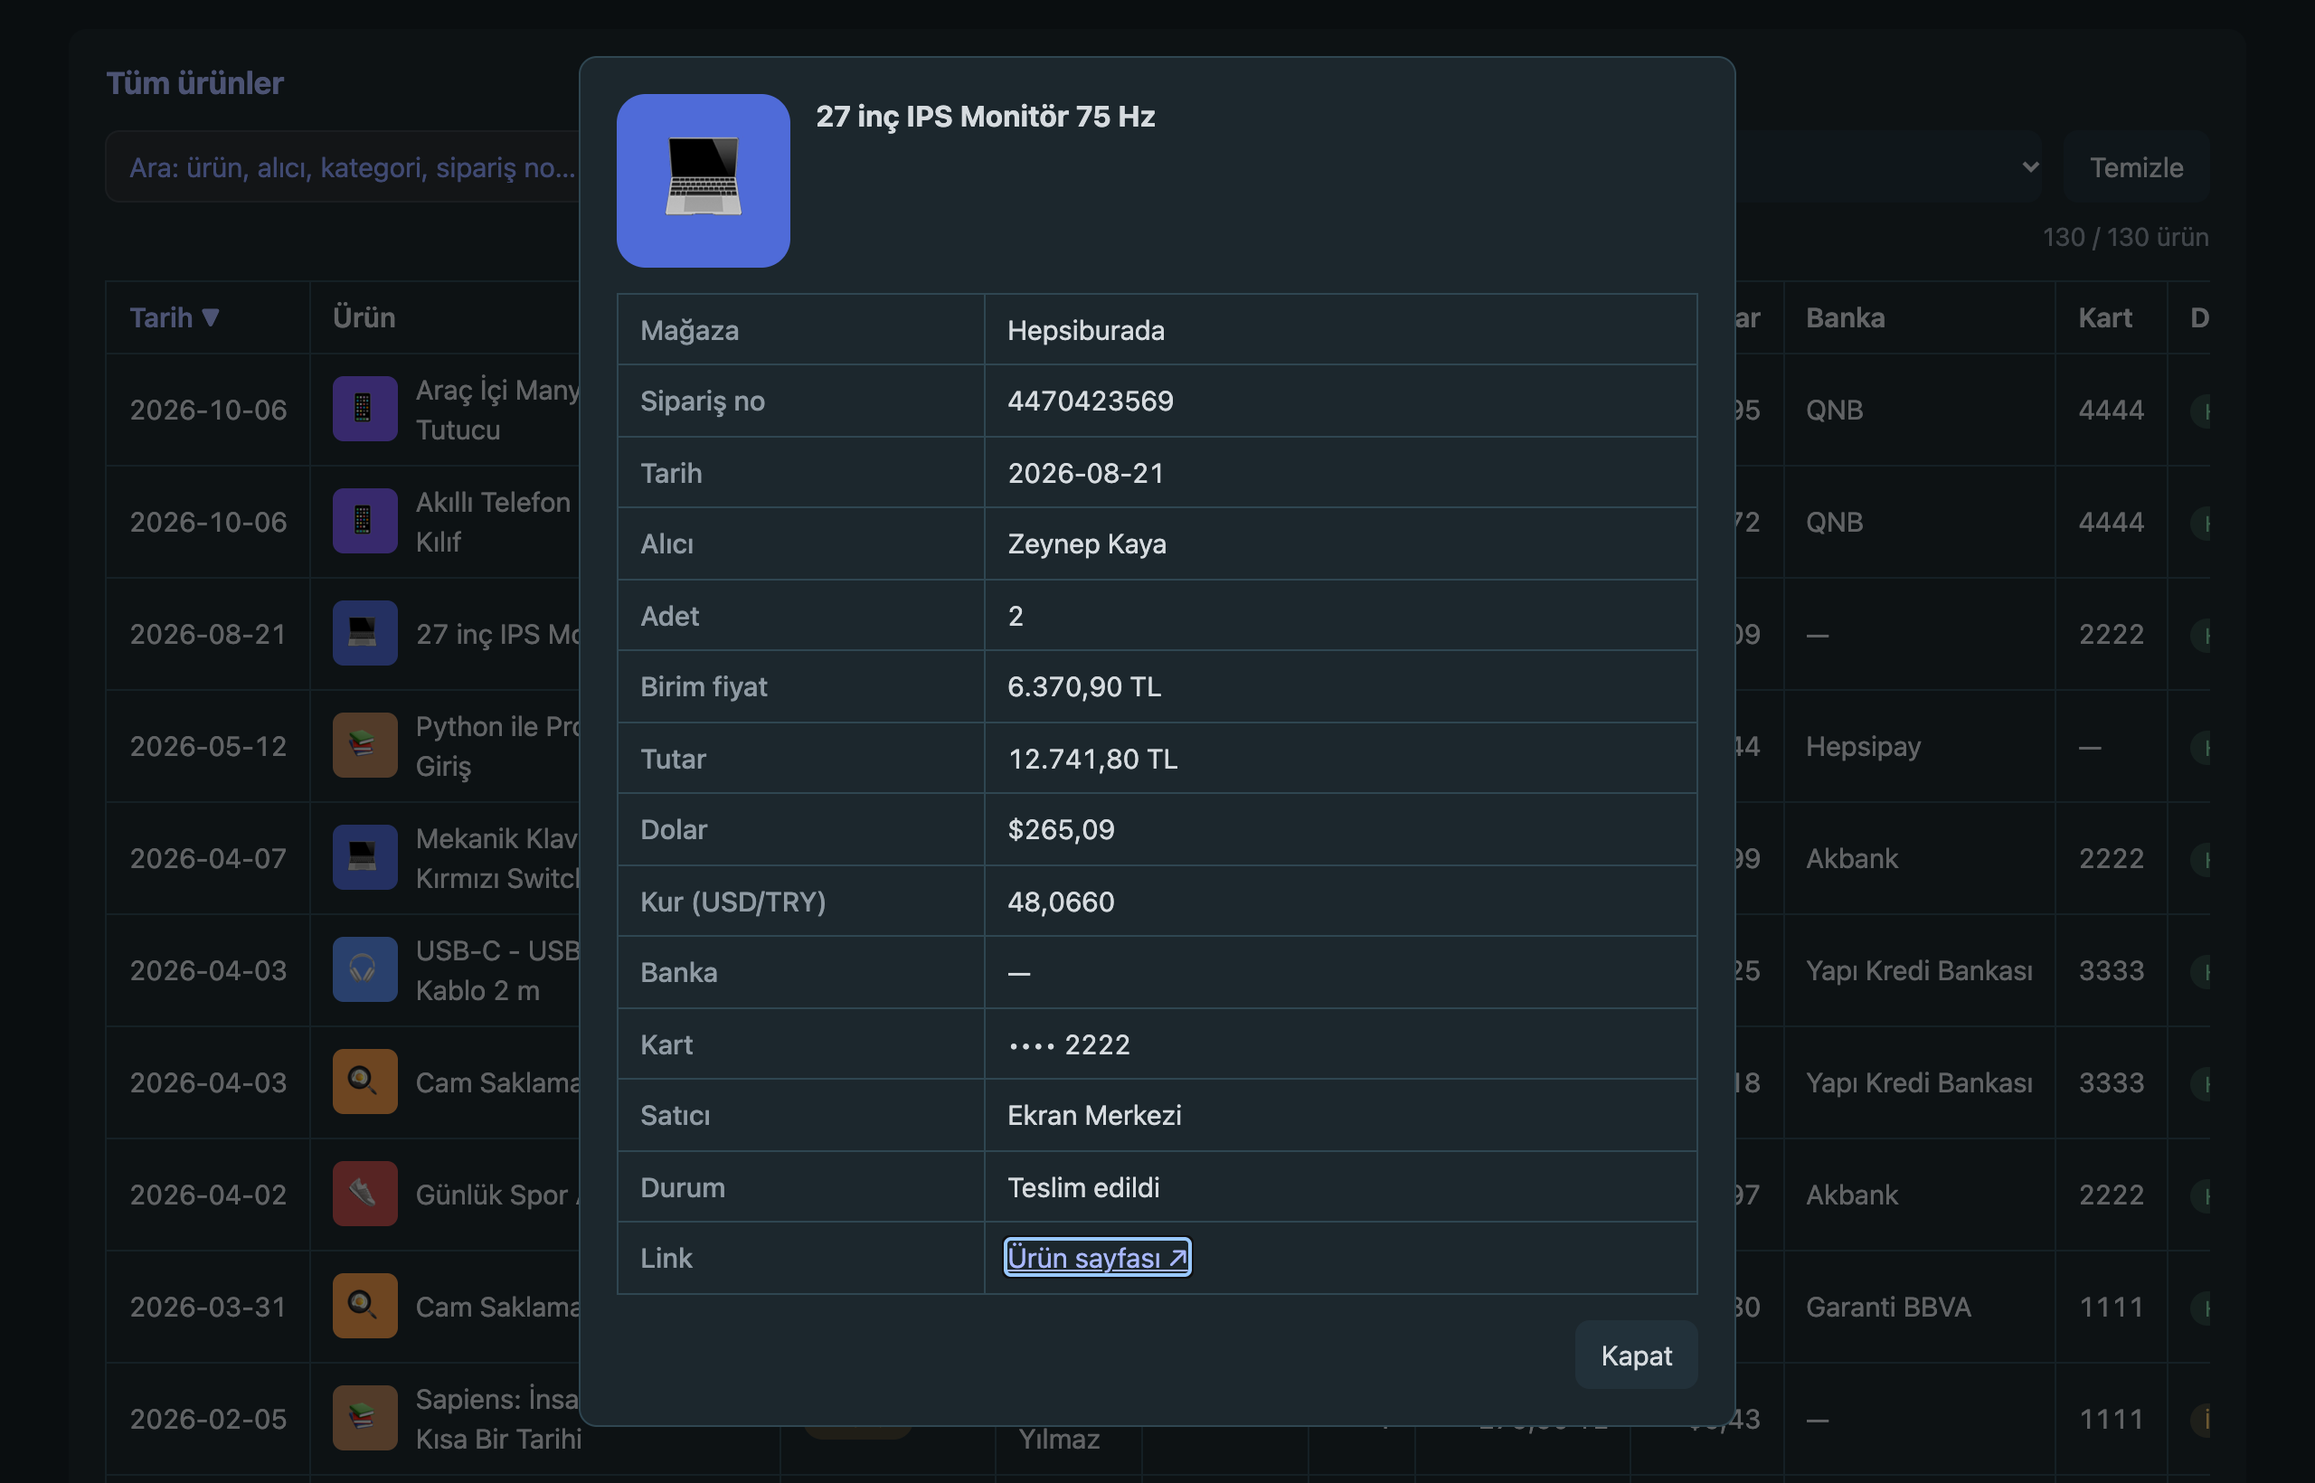
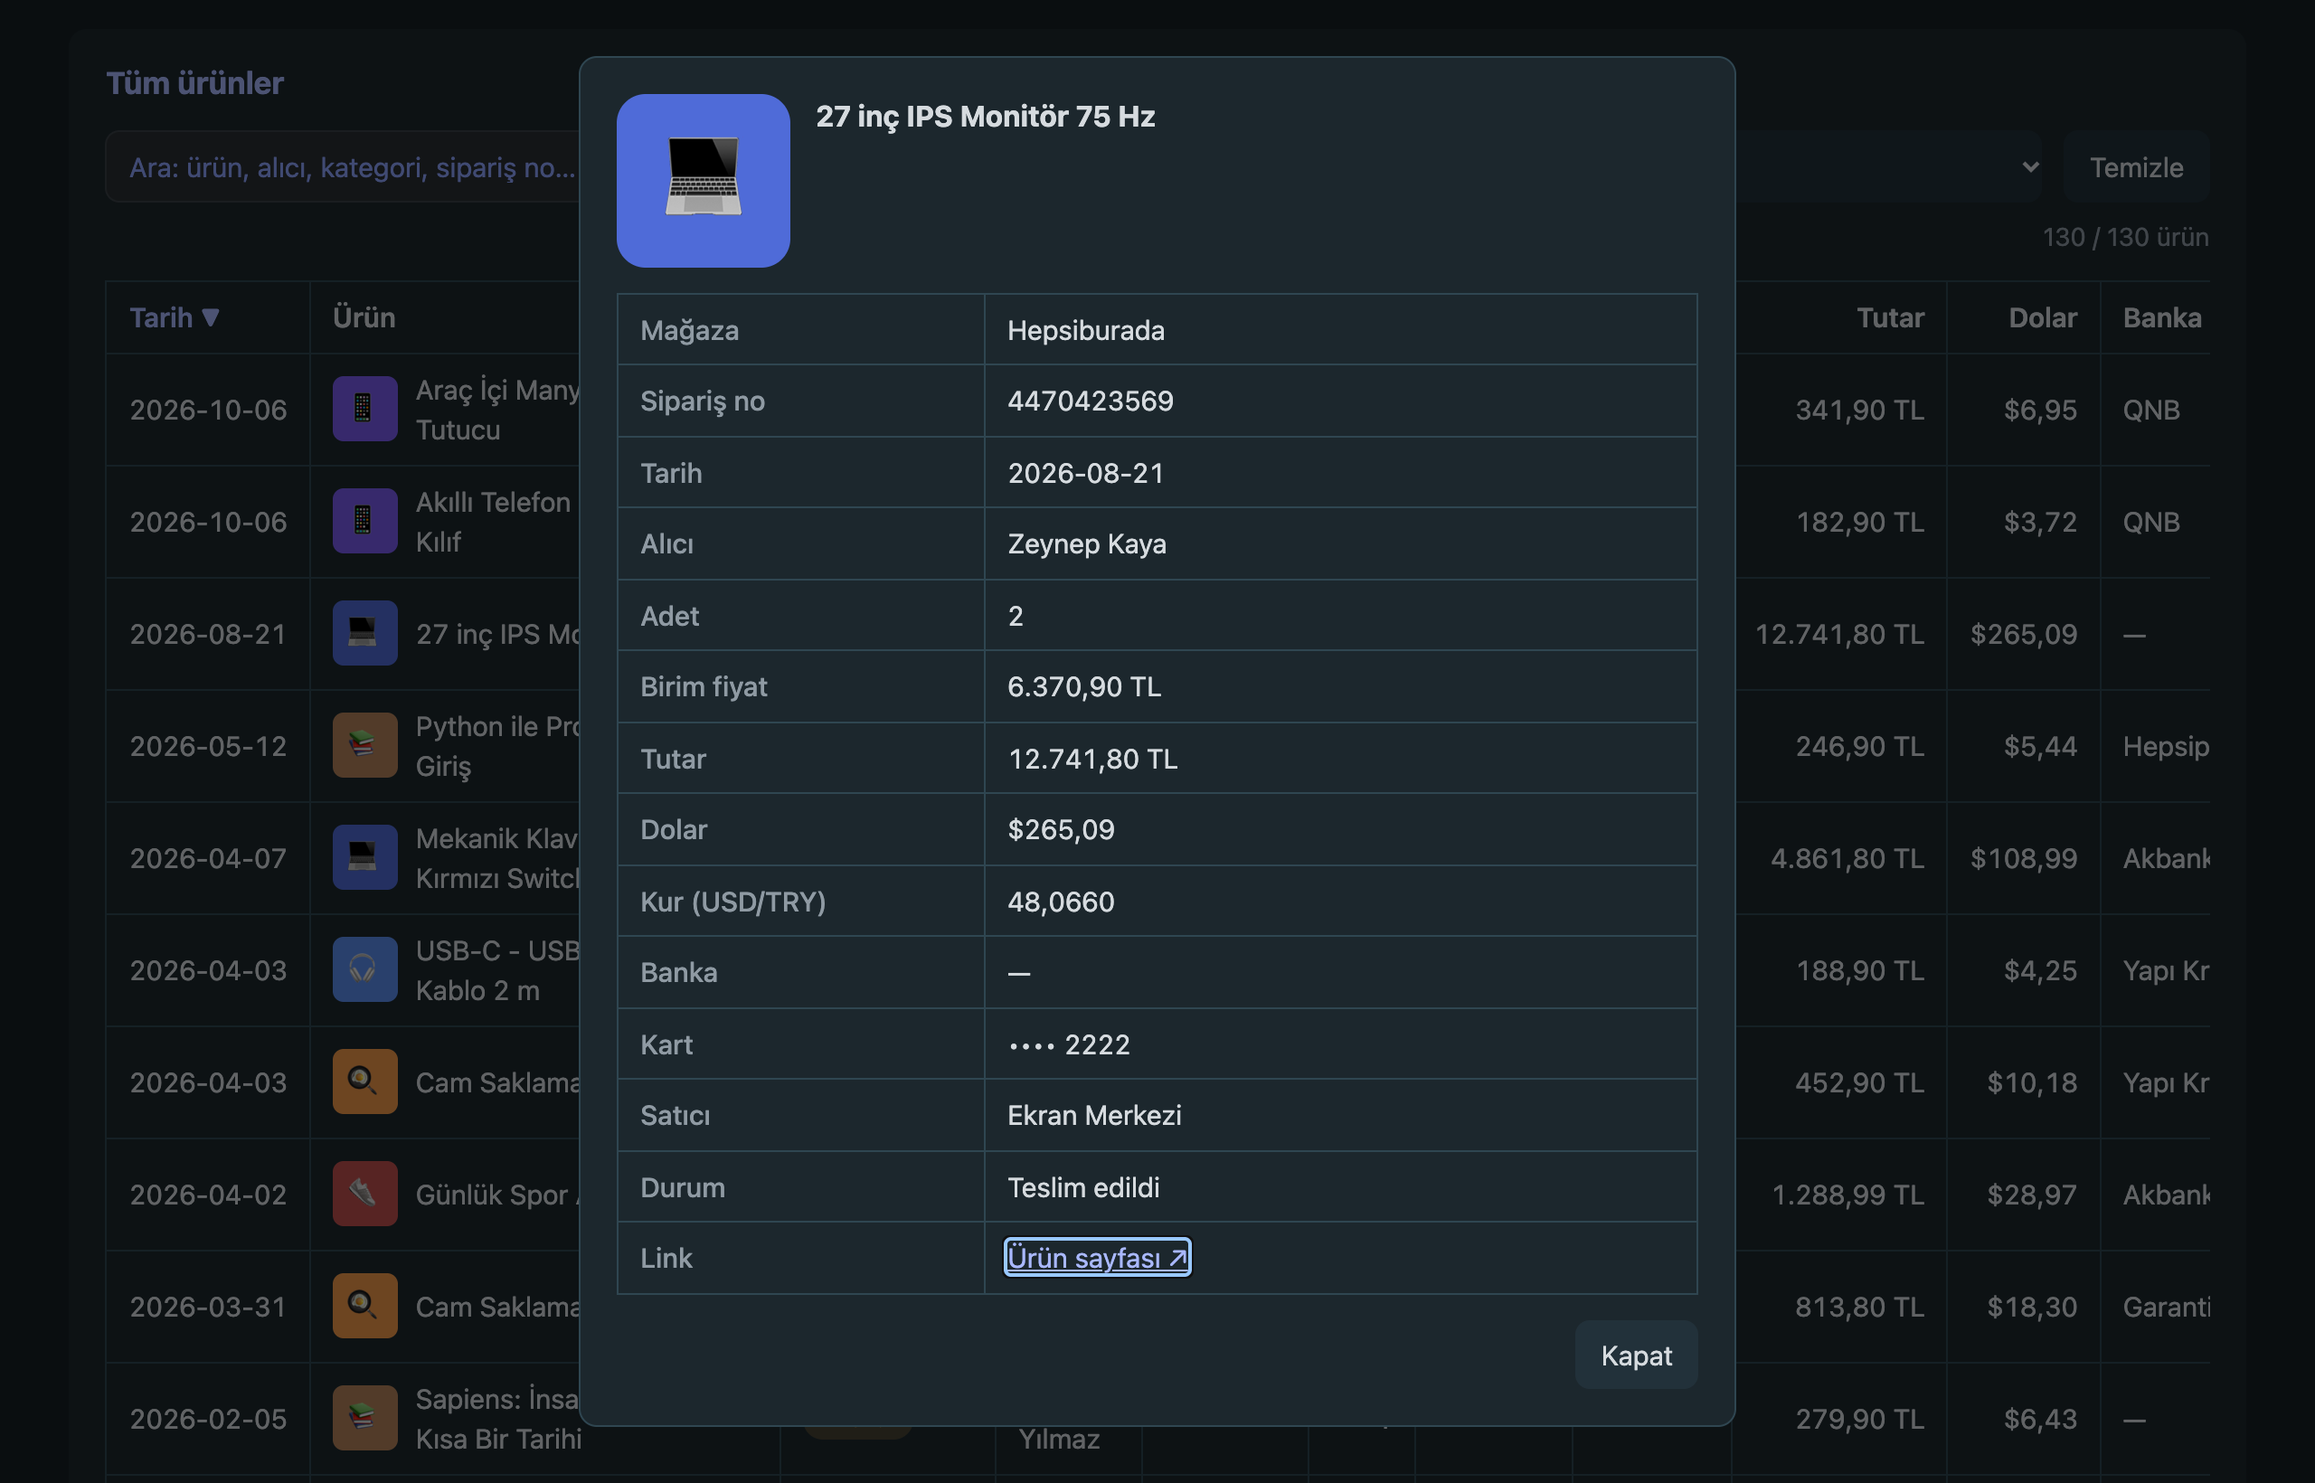
Temu: gümrük vergisi, iade ve net ürün başına görünür
- Adaptör vault yöntemiyle aynı: vergi ve ödenen satır oranında, iade kaydın kapsadığı ürünlere ödenen oranında
- Ürünler tablosunda Temu varsa Gümrük ve İade sütunları; ayrıntıda ürün tutarı/vergi/ödenen/iade/net
- Özet satırının altında Temu dökümü (ürün + vergi → ödenen − iade = net)
- README ve ekran görüntüleri güncellendi

diff --git a/web/js/adapters/temu.js b/web/js/adapters/temu.js
@@ -1,7 +1,10 @@
-// Temu: ürün satırları ithalat vergisini ve kuponu içermez, sipariş toplamı içerir.
-// Ödenen = sipariş toplamı, ürünlere satır tutarıyla orantılı dağıtılır (çıkarım).
-// İade = siparişin vergili iade toplamı, ürünlere refundedAmount (vergisiz) oranında dağıtılır.
-// refundedQty güvenilir değil: "fiyat ayarlaması" iadeleri de adet sayıyor; tam iade tutardan anlaşılır.
+// Temu: ürün satırları ithalat vergisini içermez, sipariş toplamı içerir. Ürün başına:
+//   Gümrük vergisi = siparişte ödenen ithalat vergisi, satır tutarı oranında (iptalde alan boş: toplam − ürün tutarı)
+//   Ödenen = sipariş toplamının ürün payı (vergi dahil, kupon/kredi sonrası), satır tutarı oranında
+//   İade = siparişin iade kayıtları (vergi iadesi dahil), kaydın kapsadığı ürünlere ödenen oranında;
+//          kaydı olmayan iade (ör. iptal siparişler) tüm ürünlere
+//   Net = Ödenen − İade (0'ın altına inmez). Harcamaya net girer.
+// "Fiyat ayarlaması" iadelerinin tutarı Temu verisinde yok; o ürünlerin neti fazla görünebilir.
 (function (SD) {
   SD.adapters.temu = {
     store: 'temu', label: 'Temu',
@@ -11,32 +14,47 @@
       const card = SD.dash(p.card);
       const pay = card ? { last4: card, brand: SD.dash(p.cardType)?.toUpperCase() } : { method: SD.dash(p.type) || 'Kredi bakiyesi' };
       const items = o.items || [];
-      const orderTotal = SD.parseTL(o.total);
-      const lineSum = items.reduce((a, i) => a + (SD.parseTL(i.lineTotal) || 0), 0);
-      const refundTotal = SD.parseTL(o.refundTotal) || 0;
-      const refundSum = items.reduce((a, i) => a + (SD.parseTL(i.refundedAmount) || 0), 0);
-      return items.map(i => {
-        const line = SD.parseTL(i.lineTotal);
-        const paid = line != null && lineSum && orderTotal != null ? orderTotal * line / lineSum : null;
-        const refund = refundSum ? refundTotal * (SD.parseTL(i.refundedAmount) || 0) / refundSum : 0;
-        const state = i.cancelled || o.cancelled ? 'iptal' : paid != null && refund >= paid - 0.5 ? 'iade' : 'ok';
+      const lines = items.map(i => SD.parseTL(i.lineTotal) || 0);
+      const lineSum = lines.reduce((a, x) => a + x, 0) || 1;
+      const top = SD.parseTL(o.total) || 0;
+      const taxOrder = SD.parseTL(p.importTax) || Math.max(top - lines.reduce((a, x) => a + x, 0), 0);
+      const paid = lines.map(x => top * x / lineSum);
+
+      const refund = items.map(() => 0);
+      for (const rf of o.refunds || []) {
+        let ks = items.map((it, k) => ((rf.items || []).includes(it.subOrderNo) ? k : -1)).filter(k => k >= 0);
+        if (!ks.length) ks = items.map((_, k) => k);
+        const so = ks.reduce((a, k) => a + paid[k], 0) || 1;
+        for (const k of ks) refund[k] += (SD.parseTL(rf.amount) || 0) * paid[k] / so;
+      }
+      const rest = (SD.parseTL(o.refundTotal) || 0) - refund.reduce((a, x) => a + x, 0);
+      if (rest > 0.01) paid.forEach((x, k) => { refund[k] += rest * x / (top || 1); });
+
+      return items.map((i, k) => {
+        let net = Math.round((paid[k] - refund[k]) * 100) / 100;
+        if (net < 0.01) net = 0;   // iade, vergi yuvarlaması yüzünden payı birkaç kuruş aşabiliyor
+        const state = i.cancelled || o.cancelled ? 'iptal' : refund[k] && !net ? 'iade' : 'ok';
+        const statusText = state === 'ok' && refund[k] ? 'Kısmi iade' : SD.dash(i.status) || SD.dash(o.status);
         return {
           store: 'temu', orderNo: o.orderNo, date: SD.parseDate(o.date),
           name: SD.dash(i.name) || '(adsız ürün)',
           qty: typeof i.quantity === 'number' ? i.quantity : null,
           unit: SD.parseTL(i.unitPrice),
-          total: paid == null ? null : state === 'ok' ? paid - refund : paid,   // harcamada iade sonrası net
-          tax: paid != null && line != null ? paid - line : null,
-          refund: refund || null,
+          line: SD.parseTL(i.lineTotal),
+          tax: taxOrder * lines[k] / lineSum,
+          paid: paid[k],
+          refund: refund[k] || null,
+          net,
+          total: state === 'ok' ? net : paid[k],   // harcamada net; iade/iptalde ödenen (harcamaya girmez)
           estimated: false,
           recipient: SD.dash(o.address?.fullName),
           category: null,
           seller: null,
           variant: SD.dash(i.variant),
-          statusText: SD.dash(i.status) || SD.dash(o.status),
+          statusText,
           state,
           pay, url: SD.dash(i.url), image: SD.dash(i.image),
-          orderTotal,
+          orderTotal: top,
         };
       });
     },

diff --git a/web/js/components/table.js b/web/js/components/table.js
@@ -1,5 +1,6 @@
 // Filtrelenebilir, sıralanabilir tablo bileşeni: arama kutusu + tek seçmeli filtre + Temizle + "n / m" sayacı.
 // Kullanım: const t = SD.table({ columns, unit, filterKey, filterLabel, pageSize, onRow }); t.el'i yerleştir, t.update(rows) çağır.
+// Sütunda when(rows) varsa sütun yalnız true dönünce görünür (ör. yalnız Temu satırlarında olan Gümrük/İade).
 (function (SD) {
   const { h } = SD;
 
@@ -24,8 +25,10 @@
     select?.addEventListener('change', () => { sel = select.value; page = 0; render(); });
     clear.addEventListener('click', () => { q = sel = ''; search.value = ''; if (select) select.value = ''; page = 0; render(); });
 
+    const visible = () => columns.filter(c => !c.when || c.when(rows));
+
     function header() {
-      thead.replaceChildren(h('tr', {}, columns.map(c => {
+      thead.replaceChildren(h('tr', {}, visible().map(c => {
         const active = sortKey === c.key;
         return h('th', {
           class: [c.num && 'num', c.sortable !== false && 'sortable', active && 'active'].filter(Boolean).join(' '),
@@ -64,13 +67,13 @@
       const shown = pageSize ? list.slice(page * pageSize, (page + 1) * pageSize) : list;
       tbody.replaceChildren(...shown.map(r => {
         const tr = h('tr', { class: onRow ? 'clickable' : null, onclick: onRow ? () => onRow(r) : null },
-          columns.map(c => {
+          visible().map(c => {
             const v = c.render ? c.render(r) : (c.fmt ? c.fmt(r[c.key]) : r[c.key] ?? '—');
             return h('td', { class: [c.num && 'num', c.cls].filter(Boolean).join(' ') || null }, v);
           }));
         return tr;
       }));
-      if (!shown.length) tbody.append(h('tr', {}, h('td', { colspan: columns.length, class: 'empty' }, 'Sonuç yok')));
+      if (!shown.length) tbody.append(h('tr', {}, h('td', { colspan: visible().length, class: 'empty' }, 'Sonuç yok')));
       pager.replaceChildren();
       if (pages > 1) {
         const btn = (txt, p, dis) => h('button', { class: 'tb-btn', type: 'button', disabled: dis, onclick: () => { page = p; render(); } }, txt);

diff --git a/web/js/views/items.js b/web/js/views/items.js
@@ -2,6 +2,7 @@
 (function (SD) {
   const { h } = SD;
   const STATE = { ok: 'Harcama', iade: 'İade', iptal: 'İptal' };
+  const hasTemu = rows => rows.some(r => r.paid != null);
 
   function detail(dialog, it) {
     const row = (k, v) => (v == null || v === '' ? null : h('tr', {}, h('th', {}, k), h('td', {}, v)));
@@ -16,9 +17,12 @@
         row('Alıcı', it.recipient),
         row('Adet', it.qty),
         row('Birim fiyat', SD.fmtTL(it.unit)),
-        row('Tutar', (it.estimated ? '≈ ' : '') + SD.fmtTL(it.total)),
-        it.tax ? row('Vergi/kupon payı (çıkarım)', SD.fmtTL(it.tax)) : null,
-        it.refund ? row('İade payı (çıkarım)', SD.fmtTL(it.refund)) : null,
+        it.paid == null ? row('Tutar', (it.estimated ? '≈ ' : '') + SD.fmtTL(it.total)) : null,
+        it.paid != null ? row('Ürün tutarı', SD.fmtTL(it.line)) : null,
+        it.paid != null ? row('Gümrük vergisi (pay)', SD.fmtTL(it.tax)) : null,
+        it.paid != null ? row('Ödenen (pay, vergi dahil)', SD.fmtTL(it.paid)) : null,
+        it.paid != null ? row('İade (pay, vergi dahil)', it.refund ? SD.fmtTL(it.refund) : '—') : null,
+        it.paid != null ? row('Net', SD.fmtTL(it.net)) : null,
         row('Dolar', it.usd != null ? SD.fmtUSD(it.usd) : null),
         row('Kur (USD/TRY)', it.rate ? it.rate.toFixed(4).replace('.', ',') : null),
         row('Banka', it.bank),
@@ -51,6 +55,8 @@
         { key: 'recipient', label: 'Alıcı' },
         { key: 'category', label: 'Kategori' },
         { key: 'qty', label: 'Adet', num: true },
+        { key: 'tax', label: 'Gümrük', num: true, cls: 'nowrap', when: hasTemu, render: it => (it.tax ? SD.fmtTL(it.tax) : '—') },
+        { key: 'refund', label: 'İade', num: true, cls: 'nowrap', when: hasTemu, render: it => (it.refund ? SD.fmtTL(it.refund) : '—') },
         { key: 'total', label: 'Tutar', num: true, cls: 'nowrap', render: it => (it.estimated ? '≈ ' : '') + SD.fmtTL(it.total) },
         { key: 'usd', label: 'Dolar', num: true, cls: 'nowrap', fmt: SD.fmtUSD },
         { key: 'bank', label: 'Banka', cls: 'nowrap' },

diff --git a/web/js/views/summary.js b/web/js/views/summary.js
@@ -38,7 +38,15 @@
       const note = h('p', { class: 'muted small rate-note' },
         'Dolar: alış gününün USD/TRY kuru, Frankfurter (açık kaynak API, Avrupa Merkez Bankası referans kuru; hafta sonu ve tatilde önceki iş günü). ',
         'Bankanın uyguladığı kurdan farklıdır, API hatalı ya da eksik veri dönebilir: dolar tutarları yaklaşıktır.');
-      root.replaceChildren(line, tiles, note);
+      // Temu: ürün tutarı + gümrük vergisi → ödenen − iade = net (harcamaya net girer)
+      const temu = items.filter(i => i.paid != null);
+      const sum = k => temu.reduce((a, i) => a + (i[k] || 0), 0);
+      const temuLine = temu.length ? h('p', { class: 'temu-line' },
+        h('strong', {}, 'Temu: '), `ürün ${SD.fmtTL(sum('line'))} + gümrük vergisi ${SD.fmtTL(sum('tax'))} → ödenen ${SD.fmtTL(sum('paid'))} − iade ${SD.fmtTL(sum('refund'))} = net `,
+        b(SD.fmtTL(sum('net'))),
+        h('span', { class: 'muted' }, ' (vergi ve iade ürünlere orantılı dağıtılır; ürün başına tutarlar çıkarımdır)')) : null;
+
+      root.replaceChildren(line, tiles, temuLine, note);
     };
   };
 })(window.SD);

diff --git a/web/css/style.css b/web/css/style.css
@@ -97,6 +97,7 @@ a { color: var(--accent); }
 .summary-line { font-size: 20px; line-height: 1.6; margin: 0 0 16px; color: #c3c9ce; }
 .summary-line .hl { color: var(--accent); }
 .rate-note { margin: 12px 0 0; }
+.temu-line { margin: 14px 0 0; }
 .tiles { display: grid; grid-template-columns: repeat(auto-fit, minmax(180px, 1fr)); gap: 12px; }
 .tile { background: var(--panel-2); border-radius: 8px; padding: 12px 14px; }
 .tile-k { color: var(--muted); font-size: 13px; }

diff --git a/README.md b/README.md
@@ -76,7 +76,12 @@ Denemek için `examples/` klasörünü seç: klasörde gerçek dosya yoksa örne
 - **Banka:** yalnız site veriyorsa görünür (şu an yalnız Trendyol). Diğerlerinde `—`; kartsız ödemede yöntem yazılır (Hepsipay, Trendyol Cüzdan, Hediye çeki).
 - **Dolar:** alış gününün USD/TRY kuru, [Frankfurter](https://frankfurter.dev) (açık kaynak API, Avrupa Merkez Bankası referans kuru; hafta sonu ve tatilde önceki iş günü). API'ye yalnız tarih aralığı gönderilir, kurlar tarayıcıda (`localStorage`) saklanır. Bankanın uyguladığı kurdan farklıdır ve API hatalı/eksik dönebilir: **dolar tutarları yaklaşıktır.** API'ye ulaşılamazsa dolar sütunları boş kalır.
 - **Fiyatı olmayan ürün:** sipariş tek ürünlüyse sipariş toplamı kullanılır ve `≈` ile işaretlenir.
-- **Temu:** sipariş toplamı (ithalat vergisi ve kupon dahil) ürünlere satır tutarıyla orantılı dağıtılır; iade de aynı şekilde. Ürün başına tutar bu yüzden çıkarımdır. Tamamı iade edilen ürün iade sayılır, kısmi iade tutarı düşer.
+- **Temu:** ürün satırları gümrük (ithalat) vergisini içermez, sipariş toplamı içerir. Panel ürün başına şunları gösterir (tabloda **Gümrük** ve **İade** sütunları, ayrıntıda hepsi; özet satırının altında Temu toplamı):
+  - **Gümrük vergisi:** siparişte ödenen ithalat vergisi, ürünlere satır tutarı oranında.
+  - **Ödenen:** sipariş toplamının ürün payı (vergi dahil, kupon/kredi sonrası).
+  - **İade:** Temu'nun iade kayıtları (vergi iadesi dahil), kaydın kapsadığı ürünlere ödenen oranında; kaydı olmayan iade (ör. iptal sipariş) siparişin tüm ürünlerine.
+  - **Net = Ödenen − İade.** Harcamaya net girer; tamamı iade edilen ürün iade sayılır, kısmi iadede net düşer.
+  - Dağıtımlar çıkarımdır. "Fiyat ayarlaması" iadelerinin tutarı Temu verisinde yok; bu ürünlerin neti fazla görünebilir.
 
 **Yapı**
 
